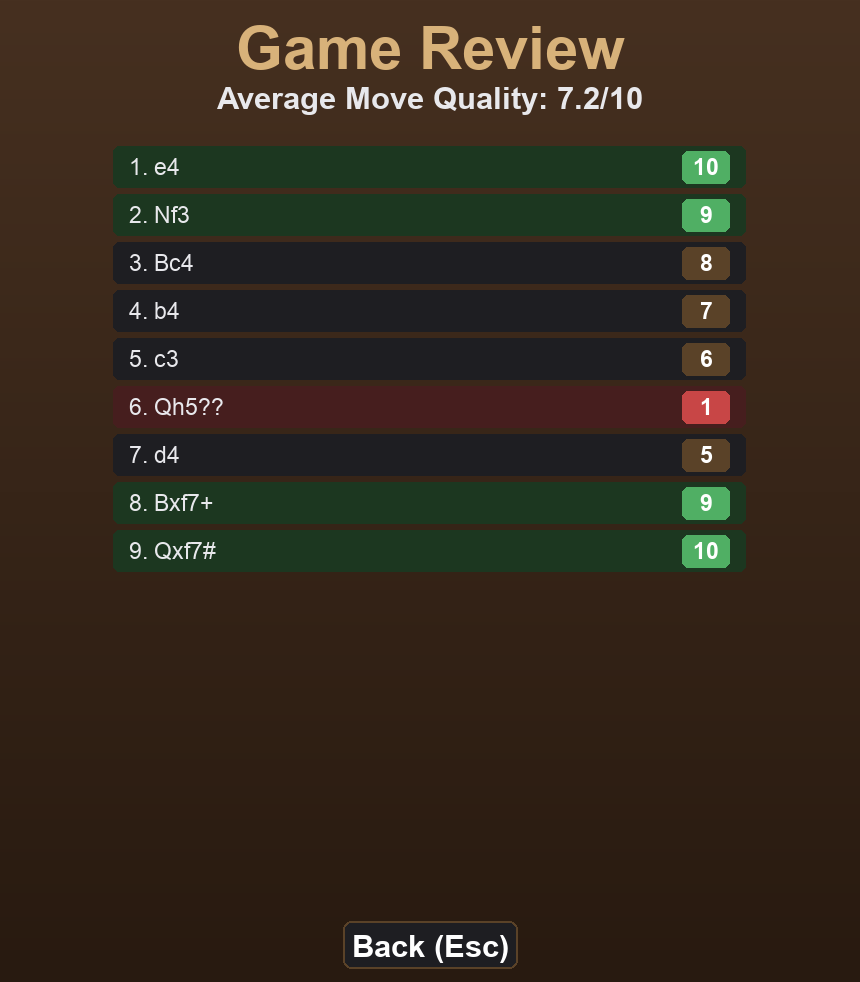
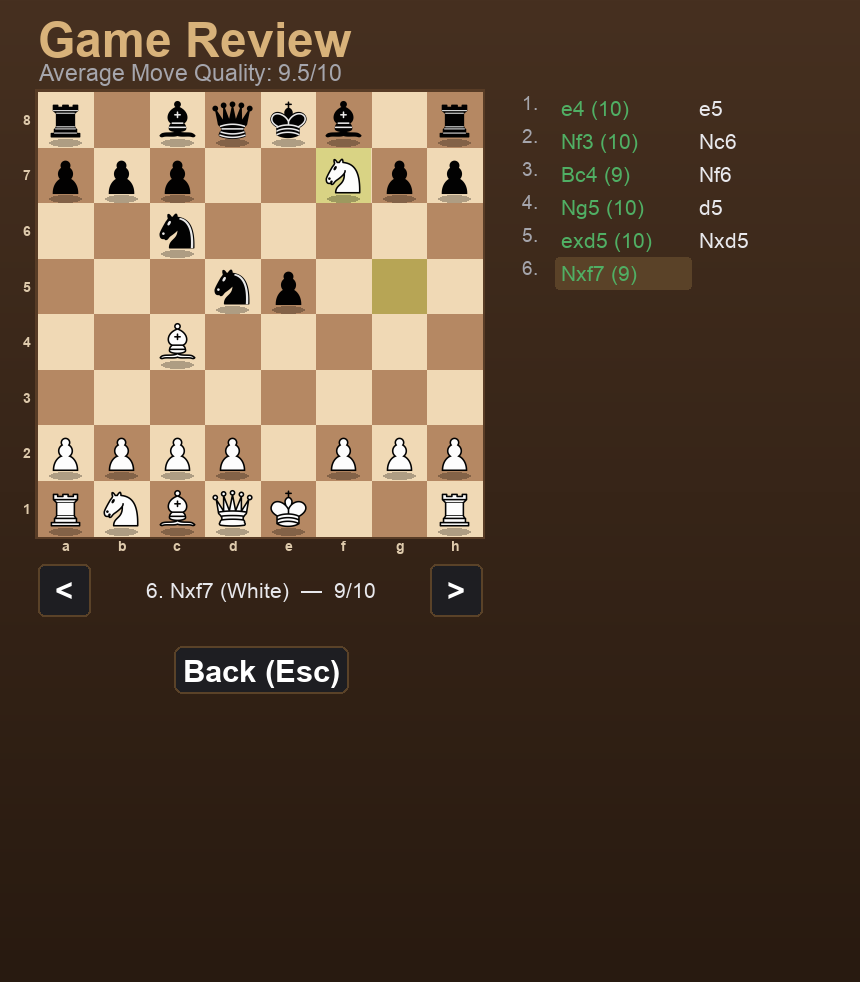
Add interactive move-by-move rewatch to Game Review, use harmonic mean average
Game Review now shows a live board alongside the move list instead of
just text. Clicking any move (yours or the AI's) jumps the board to
that exact position with the last-move highlight, so you can actually
rewatch the game rather than just read a list of scores. Added prev/
next navigation and arrow-key stepping. Fixed a layout bug where the
Back button and nav controls could overlap on wide/fullscreen windows
because the board was allowed to grow without reserving space for them.

Also switched the headline 'Average Move Quality' from a plain average
to a harmonic mean of the underlying accuracy percentages, matching
Lichess's own methodology (confirmed via their public documentation).
A harmonic mean is dragged down much harder by a single severe blunder
than an arithmetic mean, which better reflects games where one bad
moment cost the game even though the surrounding moves were fine —
directly addresses fast losses still averaging deceptively high.

diff --git a/chess_game.py b/chess_game.py
@@ -208,7 +208,8 @@ def handle_resize_events(event, screen, fullscreen):
     return screen, fullscreen
 
 
-def draw_chess_piece(screen, piece, rect):
+def draw_chess_piece(screen, piece, rect, images=None):
+    images = images if images is not None else PIECE_IMAGES
     shadow_w = int(rect.width * 0.6)
     shadow_h = int(rect.height * 0.16)
     shadow_surf = pygame.Surface((max(1, shadow_w), max(1, shadow_h)), pygame.SRCALPHA)
@@ -216,9 +217,63 @@ def draw_chess_piece(screen, piece, rect):
     shadow_rect = shadow_surf.get_rect(center=(rect.centerx, rect.bottom - int(rect.height * 0.09)))
     screen.blit(shadow_surf, shadow_rect.topleft)
 
-    img = PIECE_IMAGES[(piece.color, piece.piece_type)]
+    img = images[(piece.color, piece.piece_type)]
     img_rect = img.get_rect(center=rect.center)
     screen.blit(img, img_rect)
+
+
+_REVIEW_PIECE_CACHE = {"size": None, "images": {}}
+
+
+def get_review_piece_images(size):
+    size = max(16, int(size))
+    if _REVIEW_PIECE_CACHE["size"] != size:
+        images = {key: pygame.transform.smoothscale(src, (size, size)) for key, src in PIECE_IMAGES_SRC.items()}
+        _REVIEW_PIECE_CACHE["size"] = size
+        _REVIEW_PIECE_CACHE["images"] = images
+    return _REVIEW_PIECE_CACHE["images"]
+
+
+def draw_review_board(screen, board, last_move, origin_x, origin_y, cell_size, piece_images):
+    board_pixels = cell_size * BOARD_SIZE
+    pygame.draw.rect(
+        screen, FRAME_EDGE,
+        pygame.Rect(int(origin_x - 3), int(origin_y - 3), int(board_pixels + 6), int(board_pixels + 6)), 3,
+    )
+    for rank in range(BOARD_SIZE):
+        for file in range(BOARD_SIZE):
+            color = LIGHT_SQUARE if (rank + file) % 2 == 0 else DARK_SQUARE
+            rect = pygame.Rect(
+                int(origin_x + file * cell_size), int(origin_y + rank * cell_size),
+                int(cell_size) + 1, int(cell_size) + 1,
+            )
+            pygame.draw.rect(screen, color, rect)
+
+    def sq_rect(square):
+        file = chess.square_file(square)
+        rank = 7 - chess.square_rank(square)
+        return pygame.Rect(int(origin_x + file * cell_size), int(origin_y + rank * cell_size), int(cell_size), int(cell_size))
+
+    if last_move is not None:
+        _alpha_fill(screen, sq_rect(last_move.from_square), LAST_MOVE_HIGHLIGHT)
+        _alpha_fill(screen, sq_rect(last_move.to_square), LAST_MOVE_HIGHLIGHT)
+
+    for square in chess.SQUARES:
+        piece = board.piece_at(square)
+        if piece:
+            draw_chess_piece(screen, piece, sq_rect(square), piece_images)
+
+    files = "abcdefgh"
+    for file in range(BOARD_SIZE):
+        label = label_font.render(files[file], True, LABEL_COLOR)
+        x = origin_x + file * cell_size + cell_size / 2
+        y = origin_y + board_pixels + cell_size * 0.16
+        screen.blit(label, label.get_rect(center=(int(x), int(y))))
+    for rank in range(BOARD_SIZE):
+        label = label_font.render(str(8 - rank), True, LABEL_COLOR)
+        x = origin_x - cell_size * 0.20
+        y = origin_y + rank * cell_size + cell_size / 2
+        screen.blit(label, label.get_rect(center=(int(x), int(y))))
 
 
 def _alpha_fill(screen, rect, color):
@@ -702,6 +757,7 @@ class ChessGame:
         limit = chess.engine.Limit(depth=STOCKFISH_REVIEW_DEPTH)
         review_board = chess.Board()
         results = []
+        ply = 0
         try:
             for move in self.last_game_moves:
                 if review_board.turn == chess.WHITE:
@@ -709,15 +765,19 @@ class ChessGame:
                     san = review_board.san(move)
                     move_number = review_board.fullmove_number
                     review_board.push(move)
+                    ply += 1
                     eval_after = engine.analyse(review_board, limit)["score"].white().score(mate_score=10000)
                     accuracy = move_accuracy(win_percent(eval_before), win_percent(eval_after))
                     results.append({
                         "move_number": move_number,
                         "san": san,
                         "score": accuracy_to_score(accuracy),
+                        "accuracy": accuracy,
+                        "ply": ply,
                     })
                 else:
                     review_board.push(move)
+                    ply += 1
         finally:
             engine.quit()
         return results
@@ -725,6 +785,7 @@ class ChessGame:
     def _review_with_builtin_engine(self):
         review_board = chess.Board()
         results = []
+        ply = 0
         for move in self.last_game_moves:
             if review_board.turn == chess.WHITE:
                 move_evals = self.evaluate_root_moves(review_board, REVIEW_DEPTH)
@@ -732,12 +793,19 @@ class ChessGame:
                 played_eval = move_evals[move]
                 accuracy = move_accuracy(win_percent(best_eval), win_percent(played_eval))
                 san = review_board.san(move)
+                move_number = review_board.fullmove_number
+                review_board.push(move)
+                ply += 1
                 results.append({
-                    "move_number": review_board.fullmove_number,
+                    "move_number": move_number,
                     "san": san,
                     "score": accuracy_to_score(accuracy),
+                    "accuracy": accuracy,
+                    "ply": ply,
                 })
-            review_board.push(move)
+            else:
+                review_board.push(move)
+                ply += 1
         return results
 
     def ai_move(self, screen, clock):
@@ -956,23 +1024,78 @@ def choose_start_mode(screen, clock, saved, fullscreen):
         pygame.display.update()
 
 
-def show_review_screen(screen, clock, review_data, fullscreen):
+def show_review_screen(screen, clock, review_data, all_moves, fullscreen):
+    accuracies = [r["accuracy"] for r in review_data]
+    avg_score = (len(accuracies) / sum(1 / max(a, 0.5) for a in accuracies) / 10) if accuracies else 0
+
+    score_by_ply = {r["ply"]: r["score"] for r in review_data}
+    all_sans = []
+    positions = [chess.Board()]
+    temp_board = chess.Board()
+    for move in all_moves:
+        all_sans.append(temp_board.san(move))
+        temp_board.push(move)
+        positions.append(temp_board.copy(stack=False))
+
+    pairs = []
+    for i in range(0, len(all_moves), 2):
+        white_ply = i + 1
+        black_ply = i + 2 if i + 1 < len(all_moves) else None
+        pairs.append({
+            "move_number": i // 2 + 1,
+            "white_san": all_sans[i],
+            "white_ply": white_ply,
+            "white_score": score_by_ply.get(white_ply),
+            "black_san": all_sans[i + 1] if black_ply else None,
+            "black_ply": black_ply,
+        })
+
+    current_ply = len(all_moves)
     scroll = 0
-    avg = sum(r["score"] for r in review_data) / len(review_data) if review_data else 0
 
     while True:
         clock.tick(30)
         cell = CELL_SIZE
-        header_h = int(cell * 1.5)
-        row_h = int(cell * 0.5)
-        list_top = header_h
-        list_bottom = WINDOW_HEIGHT - int(cell * 0.7)
-        visible_rows = max(1, (list_bottom - list_top) // row_h)
-        max_scroll = max(0, len(review_data) - visible_rows)
+        top_margin = cell * 0.95
+        bottom_margin = cell * 2.0
+        board_origin_x = cell * 0.4
+        list_min_w = cell * 3.0
+        available_h = WINDOW_HEIGHT - top_margin - bottom_margin
+        available_w_for_board = WINDOW_WIDTH - board_origin_x - cell * 0.4 - list_min_w - cell * 0.35
+        review_cell = max(20, min(available_h / 8.35, available_w_for_board / 8.2))
+        board_pixels = review_cell * BOARD_SIZE
+        board_origin_y = top_margin
+
+        list_x = board_origin_x + board_pixels + cell * 0.4
+        list_w = WINDOW_WIDTH - list_x - cell * 0.3
+        list_top = top_margin
+        list_bottom = board_origin_y + board_pixels
+        row_h = max(18, int(cell * 0.34))
+        visible_rows = max(1, int((list_bottom - list_top) // row_h))
+        max_scroll = max(0, len(pairs) - visible_rows)
         scroll = max(0, min(scroll, max_scroll))
 
+        nav_y = int(board_origin_y + board_pixels + cell * 0.28)
+        nav_w = int(cell * 0.55)
+        prev_rect = pygame.Rect(int(board_origin_x), nav_y, nav_w, nav_w)
+        next_rect = pygame.Rect(int(board_origin_x + board_pixels - nav_w), nav_y, nav_w, nav_w)
         back_button_rect = pygame.Rect(0, 0, int(cell * 1.8), int(cell * 0.5))
-        back_button_rect.center = (WINDOW_WIDTH // 2, WINDOW_HEIGHT - int(cell * 0.38))
+        back_button_rect.center = (
+            int(board_origin_x + board_pixels / 2),
+            int(nav_y + nav_w + cell * 0.55),
+        )
+
+        move_row_rects = []
+        row_y = list_top
+        for idx, pair in enumerate(pairs[scroll:scroll + visible_rows]):
+            row_rects = {
+                "pair": pair,
+                "num_pos": (int(list_x), int(row_y)),
+                "white_rect": pygame.Rect(int(list_x + cell * 0.34), int(row_y), int((list_w - cell * 0.34) * 0.5), row_h),
+                "black_rect": pygame.Rect(int(list_x + cell * 0.34 + (list_w - cell * 0.34) * 0.5), int(row_y), int((list_w - cell * 0.34) * 0.5), row_h),
+            }
+            move_row_rects.append(row_rects)
+            row_y += row_h
 
         for event in pygame.event.get():
             if event.type == pygame.QUIT:
@@ -982,6 +1105,10 @@ def show_review_screen(screen, clock, review_data, fullscreen):
             if event.type == pygame.KEYDOWN:
                 if event.key in (pygame.K_ESCAPE, pygame.K_BACKSPACE):
                     return screen, fullscreen
+                if event.key == pygame.K_LEFT:
+                    current_ply = max(0, current_ply - 1)
+                if event.key == pygame.K_RIGHT:
+                    current_ply = min(len(all_moves), current_ply + 1)
                 if event.key == pygame.K_DOWN:
                     scroll = min(max_scroll, scroll + 1)
                 if event.key == pygame.K_UP:
@@ -991,41 +1118,79 @@ def show_review_screen(screen, clock, review_data, fullscreen):
             if event.type == pygame.MOUSEBUTTONDOWN:
                 if back_button_rect.collidepoint(event.pos):
                     return screen, fullscreen
+                if prev_rect.collidepoint(event.pos):
+                    current_ply = max(0, current_ply - 1)
+                if next_rect.collidepoint(event.pos):
+                    current_ply = min(len(all_moves), current_ply + 1)
+                for row in move_row_rects:
+                    if row["white_rect"].collidepoint(event.pos):
+                        current_ply = row["pair"]["white_ply"]
+                    elif row["pair"]["black_ply"] and row["black_rect"].collidepoint(event.pos):
+                        current_ply = row["pair"]["black_ply"]
 
         screen.blit(get_background_gradient(WINDOW_WIDTH, WINDOW_HEIGHT), (0, 0))
-        title = title_font.render("Game Review", True, (216, 178, 122))
-        screen.blit(title, title.get_rect(center=(WINDOW_WIDTH // 2, int(cell * 0.5))))
-        subtitle = option_font.render(f"Average Move Quality: {avg:.1f}/10", True, INFO_TEXT)
-        screen.blit(subtitle, subtitle.get_rect(center=(WINDOW_WIDTH // 2, int(cell * 1.0))))
+        title = fit_text("Game Review", int(cell * 0.5), WINDOW_WIDTH * 0.6, (216, 178, 122), bold=True)
+        screen.blit(title, title.get_rect(midleft=(int(board_origin_x), int(cell * 0.42))))
+        subtitle = fit_text(f"Average Move Quality: {avg_score:.1f}/10", int(cell * 0.24), WINDOW_WIDTH * 0.6, MUTED_TEXT)
+        screen.blit(subtitle, subtitle.get_rect(midleft=(int(board_origin_x), int(cell * 0.75))))
 
-        list_w = min(int(cell * 6.5), int(WINDOW_WIDTH * 0.9))
-        list_x = (WINDOW_WIDTH - list_w) // 2
-        visible = review_data[scroll:scroll + visible_rows]
-        y = list_top
-        for entry in visible:
-            row_rect = pygame.Rect(int(list_x), int(y), int(list_w), int(row_h - 6))
-            score = entry["score"]
-            if score <= 3:
-                bg, badge = BAD_BG, BAD_BADGE
-            elif score >= 9:
-                bg, badge = GOOD_BG, GOOD_BADGE
-            else:
-                bg, badge = PANEL_BG, PANEL_ACCENT
-            pygame.draw.rect(screen, bg, row_rect, border_radius=6)
-            badge_rect = pygame.Rect(0, 0, int(cell * 0.5), int(cell * 0.34))
-            badge_rect.midright = (row_rect.right - 16, row_rect.centery)
-            move_text = fit_text(f"{entry['move_number']}. {entry['san']}", int(cell * 0.24), row_rect.width - 32 - badge_rect.width, INFO_TEXT)
-            screen.blit(move_text, (row_rect.x + 16, row_rect.centery - move_text.get_height() // 2))
-            pygame.draw.rect(screen, badge, badge_rect, border_radius=6)
-            score_text = review_font_bold.render(str(score), True, WHITE)
-            screen.blit(score_text, score_text.get_rect(center=badge_rect.center))
-            y += row_h
+        board = positions[current_ply]
+        last_move = all_moves[current_ply - 1] if current_ply > 0 else None
+        piece_images = get_review_piece_images(review_cell * 0.85)
+        draw_review_board(screen, board, last_move, board_origin_x, board_origin_y, review_cell, piece_images)
 
-        if not review_data:
+        mouse_pos = pygame.mouse.get_pos()
+        for rect, symbol in ((prev_rect, "<"), (next_rect, ">")):
+            pygame.draw.rect(screen, _hover_color(PANEL_BG, rect.collidepoint(mouse_pos), 10), rect, border_radius=6)
+            pygame.draw.rect(screen, PANEL_ACCENT, rect, 2, border_radius=6)
+            sym_text = option_font.render(symbol, True, WHITE)
+            screen.blit(sym_text, sym_text.get_rect(center=rect.center))
+
+        status_score = score_by_ply.get(current_ply)
+        if current_ply == 0:
+            status = "Starting position"
+        else:
+            mover = "White" if current_ply % 2 == 1 else "Black"
+            move_no = (current_ply + 1) // 2
+            san = all_sans[current_ply - 1]
+            status = f"{move_no}. {san} ({mover})"
+            if status_score is not None:
+                status += f"  —  {status_score}/10"
+        status_text = fit_text(status, int(cell * 0.22), int(board_pixels - nav_w * 2 - 20), INFO_TEXT)
+        screen.blit(status_text, status_text.get_rect(center=(int(board_origin_x + board_pixels / 2), nav_y + nav_w // 2)))
+
+        for row in move_row_rects:
+            pair = row["pair"]
+            num_text = hint_font.render(f"{pair['move_number']}.", True, MUTED_TEXT)
+            screen.blit(num_text, row["num_pos"])
+
+            for rect, san, ply, score in (
+                (row["white_rect"], pair["white_san"], pair["white_ply"], pair["white_score"]),
+                (row["black_rect"], pair["black_san"], pair["black_ply"], None),
+            ):
+                if san is None:
+                    continue
+                selected = ply == current_ply
+                if selected:
+                    pygame.draw.rect(screen, PANEL_ACCENT, rect, border_radius=4)
+                elif rect.collidepoint(mouse_pos):
+                    pygame.draw.rect(screen, _hover_color(PANEL_BG, True, 14), rect, border_radius=4)
+                label = san
+                if score is not None:
+                    label = f"{san} ({score})"
+                color = INFO_TEXT
+                if score is not None and score <= 3:
+                    color = BAD_BADGE
+                elif score is not None and score >= 9:
+                    color = GOOD_BADGE
+                text = fit_text(label, int(cell * 0.22), rect.width - 8, color)
+                screen.blit(text, (rect.x + 6, rect.centery - text.get_height() // 2))
+
+        if not pairs:
             empty = hint_font.render("No moves to review.", True, MUTED_TEXT)
-            screen.blit(empty, empty.get_rect(center=(WINDOW_WIDTH // 2, list_top + 40)))
+            screen.blit(empty, empty.get_rect(center=(list_x + list_w / 2, list_top + 40)))
 
-        back_hovered = back_button_rect.collidepoint(pygame.mouse.get_pos())
+        back_hovered = back_button_rect.collidepoint(mouse_pos)
         pygame.draw.rect(screen, _hover_color(PANEL_BG, back_hovered, 10), back_button_rect, border_radius=8)
         pygame.draw.rect(screen, PANEL_ACCENT, back_button_rect, 2, border_radius=8)
         back_text = fit_text("Back (Esc)", int(cell * 0.32), back_button_rect.width - 16, WHITE, bold=True)
@@ -1063,7 +1228,7 @@ def main():
                         game.replay_game(screen, clock)
                         continue
                     if hasattr(game, "review_button_rect") and game.review_button_rect.collidepoint(pygame.mouse.get_pos()):
-                        screen, fullscreen = show_review_screen(screen, clock, game.review_data or [], fullscreen)
+                        screen, fullscreen = show_review_screen(screen, clock, game.review_data or [], game.last_game_moves, fullscreen)
                         continue
                 if game.board.turn == chess.WHITE and not game.game_over:
                     game.handle_click(pygame.mouse.get_pos(), screen, clock)

diff --git a/README.md b/README.md
@@ -57,14 +57,15 @@ every loss comes with a reason.
   - **Continue** — resume at your saved rating.
   - **Recalibrate** — reset to the 1000 baseline and play a fresh calibration game to re-rank from scratch.
 - **Replay mode** — after a game ends, replay the entire game move-by-move.
-- **Game Review powered by Stockfish** — like chess.com's post-game analysis: every move you made is analyzed by a real chess engine and scored 1–10 using the Lichess/chess.com win-percentage accuracy formula, with blunders (≤3) highlighted red and excellent moves (9–10) highlighted green.
+- **Game Review powered by Stockfish** — like chess.com's post-game analysis: every move you made is analyzed by a real chess engine and scored 1–10 using the Lichess/chess.com win-percentage accuracy formula, with blunders (≤3) highlighted red and excellent moves (9–10) highlighted green. Click any move to jump the board to that exact position and rewatch the game move-by-move.
 
 ## Controls
 
 - **Mouse** — click a piece, then click a highlighted square to move it.
 - **R** — reset the current game.
 - **F11** — toggle fullscreen.
-- On the game-over screen, click **Replay** to watch the game again, or **Review** to see every move scored.
+- On the game-over screen, click **Replay** to watch the game again, or **Review** to open Game Review.
+- In Game Review, **click any move** in the list to jump the board to that exact position — a full rewatch with every move's score, not just a list. Use **◀ ▶** (or the arrow keys) to step move-by-move.
 
 ## Get it
 
@@ -138,7 +139,14 @@ and chess.com is understood to use a close variant of:
 
 1. Stockfish analyzes the position before your move and the position after it (depth 14), giving a centipawn evaluation for each, from White's perspective.
 2. Each evaluation is converted to a **win percentage** with `50 + 50 * (2 / (1 + e^(-0.00368208 × centipawns)) - 1)` — this is the empirical curve both sites use to turn an engine score into "chances of winning," and it's deliberately non-linear: a swing from +50 to -50 (near equal) matters far more than +500 to +400 (already winning).
-3. The drop in win% caused by your move maps to an accuracy score via `103.1668 × e^(-0.04354 × win%_lost) - 3.1669`, then scaled to this app's 1–10 range.
+3. The drop in win% caused by your move maps to an accuracy score via `103.1668 × e^(-0.04354 × win%_lost) - 3.1669`, then scaled to this app's 1–10 range for that move's badge.
+
+The headline **Average Move Quality** is not a plain average of those per-move
+scores — like Lichess, it's a **harmonic mean**, which is dragged down much
+harder by a single bad blunder than an arithmetic mean would be. A game with
+one real blunder and otherwise-fine moves will show a noticeably lower average
+than "sum and divide," matching the intuition that one big mistake should hurt
+your overall grade more than a plain average gives it credit for.
 
 If Stockfish isn't available, it falls back to a much weaker built-in heuristic
 search that also accounts for king safety and piece development, not just